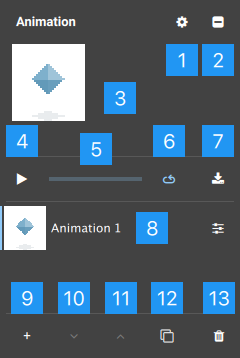
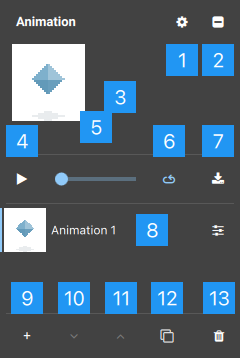
Add support for seeking in animations
Closes #169

diff --git a/app/qml/ui/AnimationPanel.qml b/app/qml/ui/AnimationPanel.qml
@@ -132,11 +132,23 @@ Panel {
                 onClicked: animationPlayback.playing = !animationPlayback.playing
             }
 
-            ProgressBar {
-                objectName: "animationProgressBar"
-                value: animationPlayback && currentAnimation ? animationPlayback.progress : 0
+            Slider {
+                id: animationSeekSlider
+                objectName: "animationSeekSlider"
+                value: animationPlayback && currentAnimation ? animationPlayback.currentFrameIndex : 0
+                to: animationPlayback && currentAnimation ? currentAnimation.frameCount - 1 : 1
+                stepSize: 1
+                focusPolicy: Qt.NoFocus
+                onMoved: animationPlayback.currentFrameIndex = value
 
                 Layout.fillWidth: true
+
+                ToolTip {
+                    parent: animationSeekSlider.handle
+                    text: qsTr("Frame %1").arg(animationSeekSlider.value + 1)
+                    visible: animationPlayback && currentAnimation
+                        && (animationSeekSlider.hovered || animationSeekSlider.pressed)
+                }
             }
 
             ToolButton {

diff --git a/tests/manual/screenshots/resources/AnimationPanelMarkers.qml b/tests/manual/screenshots/resources/AnimationPanelMarkers.qml
@@ -54,7 +54,7 @@ Item {
     }
 
     Screenshot.Marker {
-        parent: findChildHelper.findAnyChild(root.parent, "animationProgressBar")
+        parent: findChildHelper.findAnyChild(root.parent, "animationSeekSlider")
         anchors.horizontalCenter: parent.horizontalCenter
         anchors.bottom: parent.top
         anchors.bottomMargin: 12

diff --git a/tests/auto/tst_app.cpp b/tests/auto/tst_app.cpp
@@ -204,6 +204,7 @@ private Q_SLOTS:
     void reverseAnimation();
     void animationFrameWidthTooLarge();
     void animationPreviewUpdated();
+    void seekAnimation();
 
     // Layers.
     void addAndRemoveLayers();
@@ -5585,6 +5586,8 @@ void tst_App::clickOnCurrentAnimation()
     QVERIFY(animationSystem);
 
     // Play the current animation.
+    // TODO: find out why this pause is necessary on macOS when running with: saveAnimations clickOnCurrentAnimation
+    QTest::qWait(100);
     QVERIFY2(clickButton(animationPlayPauseButton), failureMessage);
     AnimationPlayback *currentAnimationPlayback = TestHelper::animationPlayback();
     QCOMPARE(currentAnimationPlayback->isPlaying(), true);
@@ -5768,6 +5771,57 @@ void tst_App::animationPreviewUpdated()
     QTRY_VERIFY(imageGrabber.isReady());
     const QImage newPreviewGrab = imageGrabber.takeImage();
     QCOMPARE(newPreviewGrab.pixelColor(10, 10), QColor(Qt::red));
+}
+
+void tst_App::seekAnimation()
+{
+    // TODO: test usual stuff, but also that 1) click to seek, 2) play doesn't result in it jumping back
+
+
+
+    // Ensure that we have a temporary directory.
+    QVERIFY2(setupTempLayeredImageProjectDir(), failureMessage);
+
+    // Copy the project file from resources into our temporary directory.
+    const QString projectFileName = QLatin1String("animation.slp");
+    QVERIFY2(copyFileFromResourcesToTempProjectDir(projectFileName), failureMessage);
+
+    // Load the project.
+    const QString absolutePath = QDir(tempProjectDir->path()).absoluteFilePath(projectFileName);
+    const QUrl projectUrl = QUrl::fromLocalFile(absolutePath);
+    QVERIFY2(loadProject(projectUrl), failureMessage);
+
+    // Open the animation panel.
+    QVERIFY2(togglePanel("animationPanel", true), failureMessage);
+    QVERIFY(isUsingAnimation());
+
+    // Ensure that the preview image shows the first frame.
+//    auto previewSpriteImage = window->findChild<QQuickItem*>("animationPreviewContainerSpriteImage");
+//    QVERIFY(previewSpriteImage);
+//    QVERIFY(imageGrabber.requestImage(previewSpriteImage));
+//    QTRY_VERIFY(imageGrabber.isReady());
+//    const QImage oldPreviewGrab = imageGrabber.takeImage();
+//    QCOMPARE(oldPreviewGrab.pixelColor(17, 10), QColor::fromRgb(QRgb(0x7eb0cc)));
+
+    // Seek to the second frame.
+    auto animationSeekSlider = window->findChild<QQuickItem*>("animationSeekSlider");
+    QVERIFY(animationSeekSlider);
+    qDebug() << "about to click slider";
+    QVERIFY2(moveSliderHandle(animationSeekSlider, 1), failureMessage);
+    QCOMPARE(sliderValue(animationSeekSlider), 1);
+    auto *animationSystem = getAnimationSystem();
+    QVERIFY(animationSystem);
+    QCOMPARE(animationSystem->currentAnimationPlayback()->currentFrameIndex(), 1);
+
+    // Click play; the animation should start from the second frame.
+    QVERIFY2(clickButton(animationPlayPauseButton), failureMessage);
+    QCOMPARE(animationSystem->currentAnimationPlayback()->isPlaying(), true);
+    QCOMPARE(animationSystem->currentAnimationPlayback()->currentFrameIndex(), 1);
+//    QVERIFY(imageGrabber.requestImage(previewSpriteImage));
+//    QTRY_VERIFY(imageGrabber.isReady());
+//    const QImage newPreviewGrab = imageGrabber.takeImage();
+//    QCOMPARE(oldPreviewGrab.pixelColor(53, 10), QColor::fromRgb(QRgb(0xffffff)));
+//    QCOMPARE(oldPreviewGrab.pixelColor(53, 11), QColor::fromRgb(QRgb(0x7eb0cc)));
 }
 
 void tst_App::addAndRemoveLayers()

diff --git a/tests/shared/testhelper.cpp b/tests/shared/testhelper.cpp
@@ -641,6 +641,53 @@ int TestHelper::sliderValue(QQuickItem *slider) const
     return qFloor(value);
 }
 
+bool TestHelper::moveSliderHandle(QQuickItem *slider, qreal expectedValue)
+{
+    VERIFY(slider);
+
+    QQuickItem *sliderHandle = slider->property("handle").value<QQuickItem*>();
+    VERIFY(sliderHandle);
+
+    const QPoint pressPos = sliderHandle->mapToScene(
+        QPointF(sliderHandle->width() / 2, slider->height() / 2)).toPoint();
+    QTest::mousePress(slider->window(), Qt::LeftButton, Qt::NoModifier, pressPos);
+    VERIFY(slider->property("pressed").toBool() == true);
+    VERIFY(window->mouseGrabberItem() == slider);
+
+    const qreal startingValue = sliderValue(slider);
+    const qreal fromValue = slider->property("from").toReal();
+    const qreal toValue = slider->property("to").toReal();
+    if (qFuzzyCompare(startingValue, expectedValue))
+        return true;
+
+    const int dragDirection = startingValue < expectedValue ? 1 : -1;
+
+    // Move the slider's handle until we find the value we want.
+    QPoint movePos = pressPos;
+    for (; ; movePos.rx() += dragDirection) {
+        QTest::mouseMove(slider->window(), movePos, 5);
+
+        const qreal value = sliderValue(slider);
+        if (qFuzzyCompare(value, expectedValue)) {
+            QTest::mouseRelease(slider->window(), Qt::LeftButton, Qt::NoModifier, movePos);
+            VERIFY(slider->property("pressed").toBool() == false);
+            return true;
+        }
+
+        if (dragDirection > 0) {
+            if (qFuzzyCompare(value, toValue))
+                break;
+        } else {
+            // going backwards
+            if (qFuzzyCompare(value, fromValue))
+                break;
+        }
+    }
+    QTest::mouseRelease(slider->window(), Qt::LeftButton, Qt::NoModifier, movePos);
+    VERIFY(slider->property("pressed").toBool() == false);
+    return false;
+}
+
 bool TestHelper::selectColourAtCursorPos()
 {
     if (tilesetProject) {

diff --git a/lib/animationplayback.h b/lib/animationplayback.h
@@ -34,7 +34,7 @@ class SLATE_EXPORT AnimationPlayback : public QObject
 {
     Q_OBJECT
     // Serialised.
-    Q_PROPERTY(int currentFrameIndex READ currentFrameIndex NOTIFY currentFrameIndexChanged FINAL)
+    Q_PROPERTY(int currentFrameIndex READ currentFrameIndex WRITE setCurrentFrameIndex NOTIFY currentFrameIndexChanged FINAL)
     Q_PROPERTY(qreal scale READ scale WRITE setScale NOTIFY scaleChanged FINAL)
     Q_PROPERTY(bool loop READ shouldLoop WRITE setLoop NOTIFY loopChanged)
 
@@ -50,6 +50,7 @@ public:
     void setAnimation(Animation *animation);
 
     int currentFrameIndex() const;
+    void setCurrentFrameIndex(int currentFrameIndex);
     qreal progress() const;
 
     qreal scale() const;
@@ -81,8 +82,6 @@ private slots:
 
 private:
     int startFrameIndex() const;
-
-    void setCurrentFrameIndex(int currentFrameIndex);
 
     void timerEvent(QTimerEvent *event) override;
 

diff --git a/lib/animationplayback.cpp b/lib/animationplayback.cpp
@@ -132,11 +132,7 @@ void AnimationPlayback::setPlaying(bool playing)
     if (mPlaying) {
         qCDebug(lcAnimationPlayback) << "starting timer on" << objectName();
 
-        if (mPauseIndex == -1) {
-            // Force the start index to be calculated based on whether the animation is reversed or not.
-            qCDebug(lcAnimationPlayback) << "starting animation on" << objectName() << "from first frame";
-            setCurrentIndexToStart();
-        } else {
+        if (mPauseIndex != -1) {
             // The animation hasn't changed since we stopped playing, so resume from where it was stopped.
             qCDebug(lcAnimationPlayback) << "resuming animation on" << objectName() << "from" << mPauseIndex;
             setCurrentFrameIndex(mPauseIndex);

diff --git a/tests/shared/testhelper.h b/tests/shared/testhelper.h
@@ -253,6 +253,7 @@ protected:
     Q_REQUIRED_RESULT bool changeToolShape(ImageCanvas::ToolShape toolShape);
     Q_REQUIRED_RESULT bool moveContents(int x, int y, bool onlyVisibleLayers);
     int sliderValue(QQuickItem *slider) const;
+    Q_REQUIRED_RESULT bool moveSliderHandle(QQuickItem *slider, qreal expectedValue);
     Q_REQUIRED_RESULT bool selectColourAtCursorPos();
     Q_REQUIRED_RESULT bool drawPixelAtCursorPos();
     Q_REQUIRED_RESULT bool drawTileAtCursorPos();

diff --git a/doc/user-interface.md b/doc/user-interface.md
@@ -89,7 +89,7 @@
 2. Toggles the visibility of the panel.
 3. Displays a preview of the animation. The scale of the preview can be changed in the settings.
 4. Plays/pauses the animation preview playback.
-5. Displays the progress of the animation preview playback.
+5. Displays the progress of the animation preview and allows seeking a specific frame.
 6. Toggles between playing once and looping.
 7. Exports the animation as a GIF.
 8. Displays animations. Each animation can be previewed by clicking on it, renamed by double-clicking on it, and configured by clicking the configure button.
